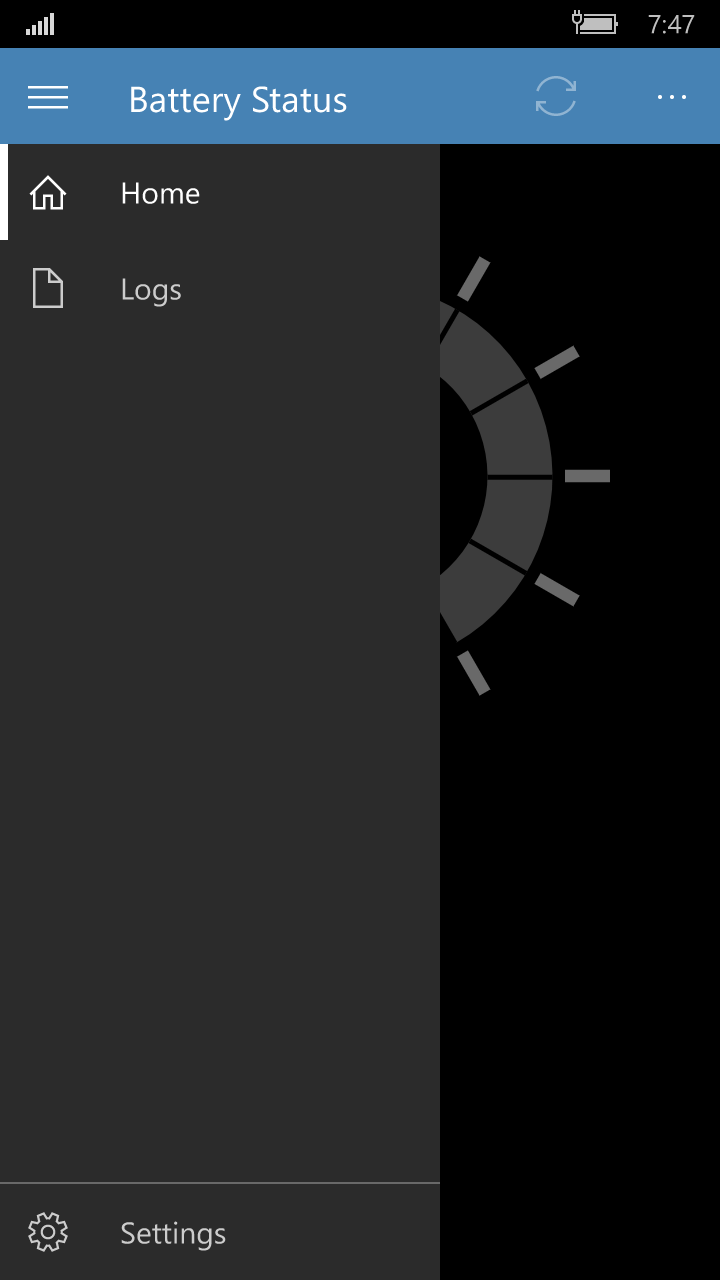
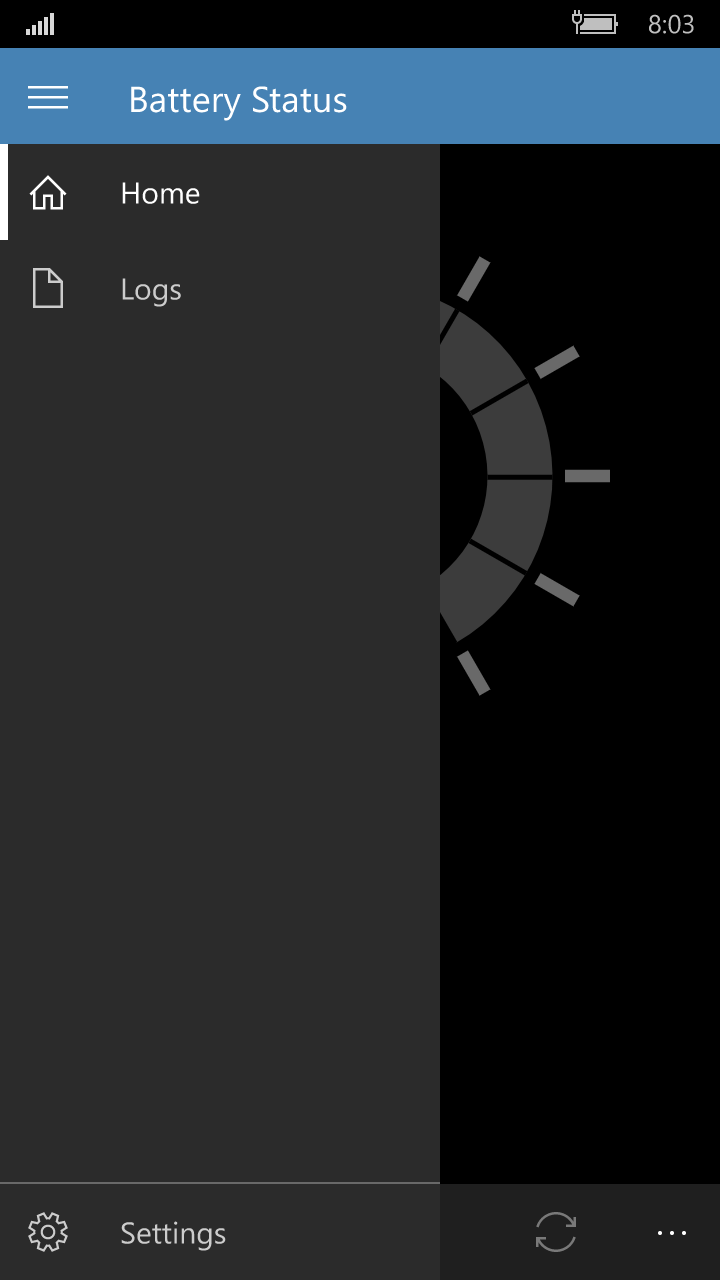
Bottom command bar for Windows Phone

Changed region(s): [[0.6111, 0.9062, 1.0, 1.0], [0.8861, 0.0, 0.9778, 0.0312], [0.7333, 0.0625, 0.7944, 0.0938]]

diff --git a/Views/MainPage.xaml b/Views/MainPage.xaml
@@ -49,12 +49,12 @@
             </VisualStateGroup>
         </VisualStateManager.VisualStateGroups>
 
-        <controls:PageHeader x:Name="pageHeader" RelativePanel.AlignLeftWithPanel="True" RelativePanel.AlignRightWithPanel="True" RelativePanel.AlignTopWithPanel="True" Text="Battery Status">
+        <controls:PageHeader x:Name="pageHeader" RelativePanel.AlignLeftWithPanel="True" RelativePanel.AlignRightWithPanel="True" RelativePanel.AlignTopWithPanel="True" Text="Battery Status" EllipsisVisibility="{Binding IsNotMobile, Converter={StaticResource EllipseToVisibility}}">
             <controls:PageHeader.SecondaryCommands>
-                <AppBarButton Label="Add Tile" Command="{x:Bind ViewModel.AddCommand}" />
-                <AppBarButton Label="Remove Tile" Command="{x:Bind ViewModel.RemoveCommand}" />
+                <AppBarButton Label="Add Tile" Command="{x:Bind ViewModel.AddCommand}" Visibility="{Binding IsNotMobile, Converter={StaticResource BooleanToVisibility}}" />
+                <AppBarButton Label="Remove Tile" Command="{x:Bind ViewModel.RemoveCommand}" Visibility="{Binding IsNotMobile, Converter={StaticResource BooleanToVisibility}}"/>
             </controls:PageHeader.SecondaryCommands>
-            <AppBarButton Icon="Sync" Label="Sync" Command="{x:Bind ViewModel.SyncCommand}"/>
+            <AppBarButton Icon="Sync" Label="Sync" Command="{x:Bind ViewModel.SyncCommand}" Visibility="{Binding IsNotMobile, Converter={StaticResource BooleanToVisibility}}"/>
         </controls:PageHeader>
 
         <ScrollViewer Padding="10,10,10,10" RelativePanel.AlignBottomWithPanel="True"
@@ -72,6 +72,16 @@
 
             </StackPanel>
         </ScrollViewer>
+        
+        <CommandBar x:Name="pageFooter" RelativePanel.AlignLeftWithPanel="True" RelativePanel.AlignRightWithPanel="True" RelativePanel.AlignBottomWithPanel="True"
+                    Visibility="{Binding IsMobile, Converter={StaticResource BooleanToVisibility}}">
+            <CommandBar.SecondaryCommands>
+                <AppBarButton Label="Add Tile" Command="{x:Bind ViewModel.AddCommand}" />
+                <AppBarButton Label="Remove Tile" Command="{x:Bind ViewModel.RemoveCommand}" />
+                <AppBarSeparator x:Name="workaround" Height="1" />
+            </CommandBar.SecondaryCommands>
+            <AppBarButton Icon="Sync" Label="Sync" Command="{x:Bind ViewModel.SyncCommand}"/>
+        </CommandBar>
 
     </RelativePanel>
 </Page>

diff --git a/Views/LogPage.xaml b/Views/LogPage.xaml
@@ -45,16 +45,15 @@
             </VisualStateGroup>
         </VisualStateManager.VisualStateGroups>
 
-
         <!--  header  -->
-        <controls:PageHeader x:Name="pageHeader" Frame="{x:Bind Frame}"
+        <controls:PageHeader x:Name="pageHeader"
                              RelativePanel.AlignLeftWithPanel="True"
                              RelativePanel.AlignRightWithPanel="True"
-                             RelativePanel.AlignTopWithPanel="True" Text="Logs">
+                             RelativePanel.AlignTopWithPanel="True" Text="Logs" EllipsisVisibility="{Binding IsNotMobile, Converter={StaticResource EllipseToVisibility}}">
             <controls:PageHeader.SecondaryCommands>
-                <AppBarButton Icon="Copy" Label="Copy" Command="{x:Bind ViewModel.CopyCommand}"/>
+                <AppBarButton Icon="Copy" Label="Copy" Command="{x:Bind ViewModel.CopyCommand}" Visibility="{Binding IsNotMobile, Converter={StaticResource BooleanToVisibility}}" />
                 <AppBarSeparator />
-                <AppBarButton Icon="Clear" Label="Clear" Command="{x:Bind ViewModel.ClearCommand}"/>
+                <AppBarButton Icon="Clear" Label="Clear" Command="{x:Bind ViewModel.ClearCommand}" Visibility="{Binding IsNotMobile, Converter={StaticResource BooleanToVisibility}}" />
             </controls:PageHeader.SecondaryCommands>
         </controls:PageHeader>
 
@@ -77,6 +76,17 @@
             
         </ScrollViewer>
 
+        <CommandBar x:Name="pageFooter"
+                             RelativePanel.AlignLeftWithPanel="True"
+                             RelativePanel.AlignRightWithPanel="True"
+                             RelativePanel.AlignBottomWithPanel="True" Visibility="{Binding IsMobile, Converter={StaticResource BooleanToVisibility}}" >
+            <CommandBar.SecondaryCommands>
+                <AppBarButton Icon="Copy" Label="Copy" Command="{x:Bind ViewModel.CopyCommand}" />
+                <AppBarSeparator />
+                <AppBarButton Icon="Clear" Label="Clear" Command="{x:Bind ViewModel.ClearCommand}" />
+                <AppBarSeparator x:Name="workaround" Height="1" />
+            </CommandBar.SecondaryCommands>
+        </CommandBar>        
     </RelativePanel>
 </Page>
 

diff --git a/Styles/Custom.xaml b/Styles/Custom.xaml
@@ -12,6 +12,7 @@
     <Color x:Key="SystemAccentColor">SteelBlue</Color>
     
     <converters:BooleanToVisibilityConverter x:Key="BooleanToVisibility" />
+    <converters:EllipseToVisibilityConverter x:Key="EllipseToVisibility" />
 
     <ResourceDictionary.ThemeDictionaries>
 

diff --git a/Converters/EllipseToVisibilityConverter.cs b/Converters/EllipseToVisibilityConverter.cs
@@ -1,0 +1,47 @@
+/*
+ *  Copyright © 2016, Russell Libby 
+ */
+
+using System;
+using Template10.Behaviors;
+using Windows.UI.Xaml;
+using Windows.UI.Xaml.Data;
+
+namespace DevicePower.Converters
+{
+    /// <summary>
+    /// Value converter that translates true to <see cref="EllipsisBehavior.Visibilities.Visible"/> and false to
+    /// <see cref="EllipsisBehavior.Visibilities.Collapsed"/>, or the reverse if the parameter is "Reverse".
+    /// </summary>
+    public class EllipseToVisibilityConverter : IValueConverter
+    {
+        /// <summary>
+        /// Convert boolean value to Visibility type.
+        /// </summary>
+        /// <param name="value">The value to convert.</param>
+        /// <param name="targetType">The target type (expecting Visibility).</param>
+        /// <param name="parameter">The object parameter.</param>
+        /// <param name="language">The language.</param>
+        /// <returns>The visibility state.</returns>
+        public object Convert(object value, Type targetType, object parameter, string language)
+        {
+            var state = System.Convert.ToBoolean(value);
+
+            return (state ? EllipsisBehavior.Visibilities.Visible : EllipsisBehavior.Visibilities.Collapsed);
+        }
+
+        /// <summary>
+        /// Convert visibility value to boolean type.
+        /// </summary>
+        /// <param name="value">The value to convert.</param>
+        /// <param name="targetType">The target type (expecting Boolean).</param>
+        /// <param name="parameter">The object parameter.</param>
+        /// <param name="language">The language.</param>
+        /// <returns>The visibility state.</returns>
+        public object ConvertBack(object value, Type targetType, object parameter, string language)
+        {
+            return (value is EllipsisBehavior.Visibilities && (EllipsisBehavior.Visibilities)value == EllipsisBehavior.Visibilities.Visible);
+        }
+    }
+}
+

diff --git a/ViewModels/LogPageViewModel.cs b/ViewModels/LogPageViewModel.cs
@@ -161,6 +161,22 @@ namespace DevicePower.ViewModels
         #region Public properties
 
         /// <summary>
+        /// True if not running on a mobile device.
+        /// </summary>
+        public bool IsNotMobile
+        {
+            get { return !IsMobile; }
+        }
+
+        /// <summary>
+        /// True if running on a mobile device.
+        /// </summary>
+        public bool IsMobile
+        {
+            get { return Common.DeviceFamily.Equals("Mobile", StringComparison.OrdinalIgnoreCase); }
+        }
+
+        /// <summary>
         /// Relay command for clearing the log.
         /// </summary>
         public RelayCommand ClearCommand

diff --git a/ViewModels/MainPageViewModel.cs b/ViewModels/MainPageViewModel.cs
@@ -671,6 +671,22 @@ namespace DevicePower.ViewModels
         #region Public properties
 
         /// <summary>
+        /// True if not running on a mobile device.
+        /// </summary>
+        public bool IsNotMobile
+        {
+            get { return !IsMobile; }
+        }
+
+        /// <summary>
+        /// True if running on a mobile device.
+        /// </summary>
+        public bool IsMobile
+        {
+            get { return Common.DeviceFamily.Equals("Mobile", StringComparison.OrdinalIgnoreCase); }
+        }
+
+        /// <summary>
         /// True if a band is paired, otherwise false.
         /// </summary>
         public bool IsPaired

diff --git a/DevicePowerCommon/Dialogs.cs b/DevicePowerCommon/Dialogs.cs
@@ -142,7 +142,7 @@ namespace DevicePowerCommon
         {
             get
             {
-                return @"This application requires a Microsoft Band paired to your device. Also make sure that you have the latest firmware installed on your Band.";
+                return @"This application requires a Microsoft Band 2 paired to your device. Also make sure that you have the latest firmware installed on your Band.";
             }
         }
 
